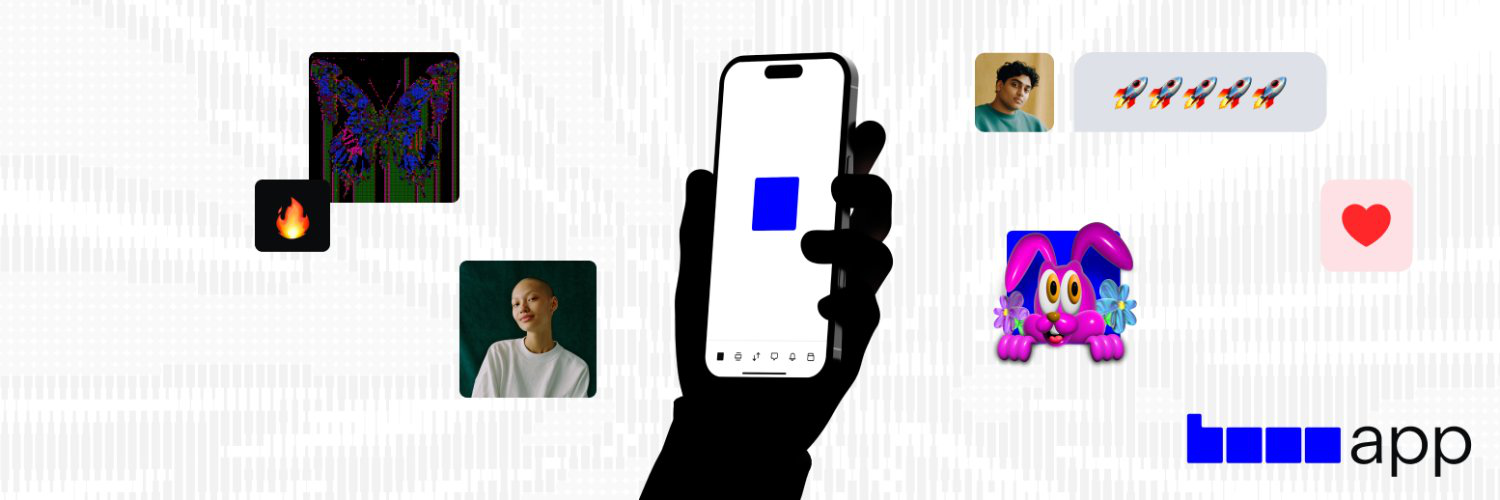
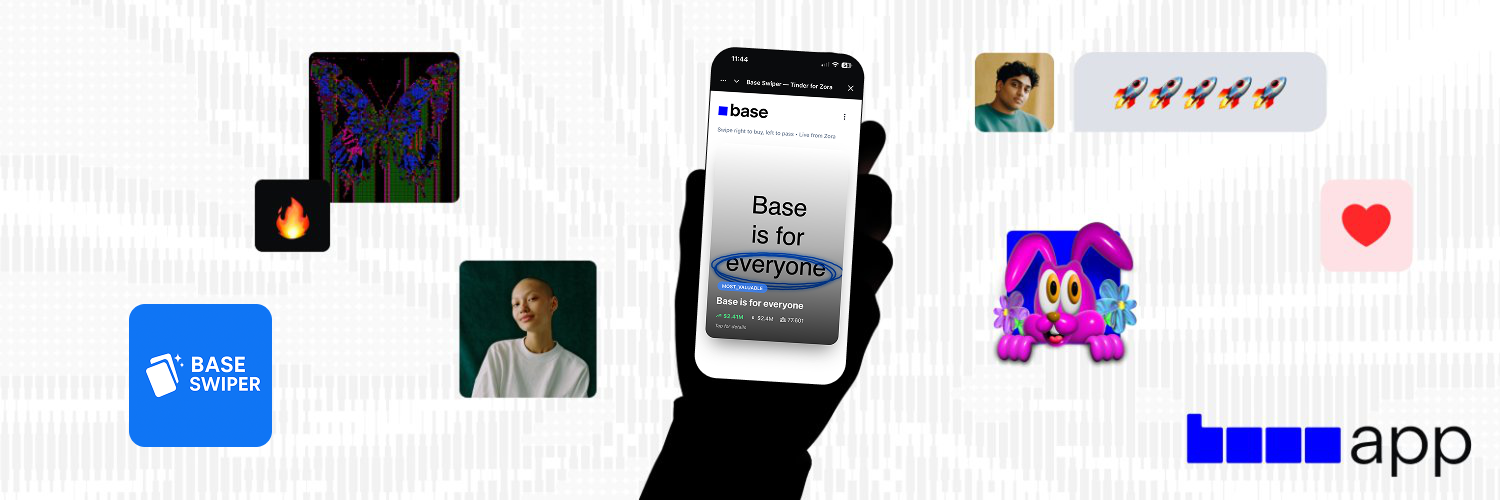
data updated

Changed region(s): [[0.46, 0.09, 0.5827, 0.78], [0.0613, 0.6, 0.184, 0.9]]

diff --git a/src/lib/utils.ts b/src/lib/utils.ts
@@ -3,9 +3,9 @@ import { twMerge } from "tailwind-merge";
 
 export const METADATA = {
   name: "Base Swiper — Tinder for Zora",
-  description: "A demo mini app for testing capabilities on Base using MiniKit",
-  bannerImageUrl: "https://i.imgur.com/2bsV8mV.png",
-  iconImageUrl: "https://i.imgur.com/brcnijg.png",
+  description: "Swipe through Zora collectibles and instantly buy them on Base",
+  bannerImageUrl: "https://imgur.com/ZIqxpsk.png",
+  iconImageUrl: "https://imgur.com/rLshpa8.png",
   homeUrl: process.env.NEXT_PUBLIC_URL ?? "https://base-swiper.vercel.app",
   splashBackgroundColor: "#FFFFFF",
 };
